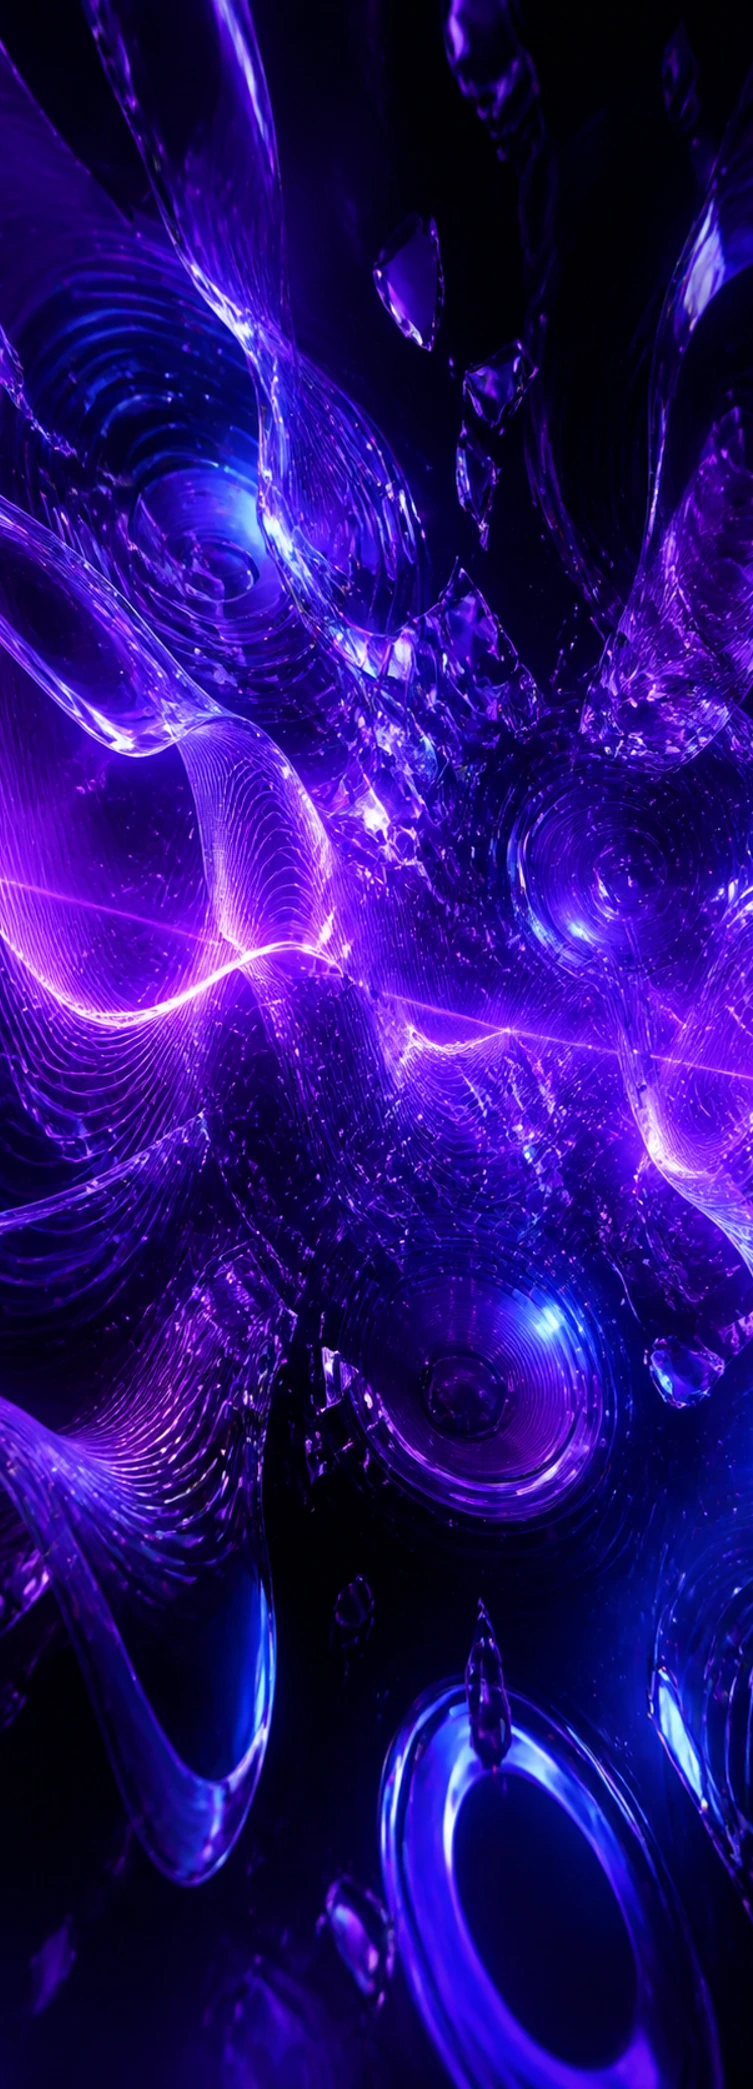
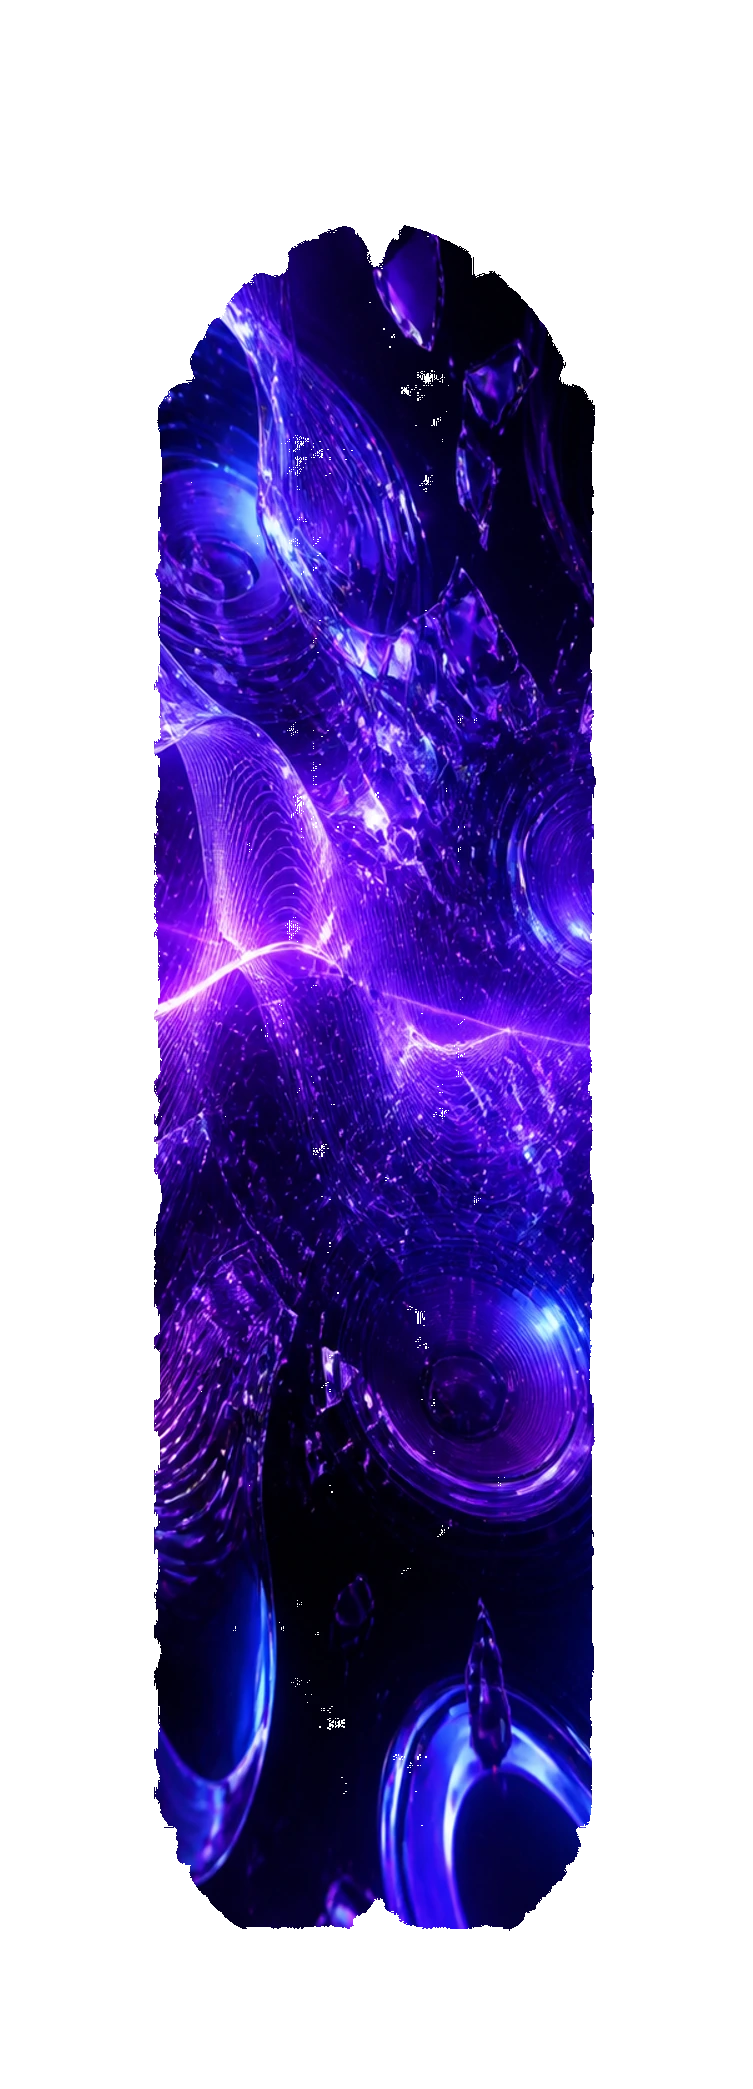
Mask summon mini gate interiors

diff --git a/PROJECT-STATUS.md b/PROJECT-STATUS.md
@@ -1632,6 +1632,12 @@ PR: https://github.com/overvivi/vivigames/pull/1
 - RAVEN／MIKA／BRICK／NOISE／KIRI／VIVI／TΩ9の7種について、景色・地面・キャラを含まない写真調の抽象異界テクスチャを追加。各キャラの固有色・紋章モチーフだけを示し、共通枠の内寸へ中央トリミングで収めた
 - 原画は`source/assets/championship-re/references/mini-gate-interior-*-master-v1.png`、配信用WebPと変換手順は`ui/mini-gates/`および`tools/build-championship-re-mini-gates.mjs`に保存。型チェックと既存の最強決定戦テスト20件は成功
 
+### 2026-09-02 — Codex（Remaster：ミニゲート内側背景の開口マスク）
+
+- 写真枠の外寸全体へ内側背景を置いていたため、透明な外周と柱の上へ背景がはみ出していた。変換処理で枠画像の中央から連続するalpha=0領域だけを抽出し、7種すべての背景へ`dest-in`マスクとして適用した
+- 枠外・柱・上アーチの位置はalpha=0、中央の開口はalpha=255であることを数値検査済み。フレームの見た目に依存せず、今後の素材再変換でも同じ開口だけに収まる
+- `npx tsc --noEmit`、`npm run test:champion`（20件）、`npm run verify`、`git diff --check`成功
+
 ### 2026-09-02 — Codex（Remaster：共通大型ゲートを確認画面へ仮配置、未公開）
 
 - 大型門の横幅を背景Bの窓に従わせる構造を不採用にした。`772×790`の門外寸そのものを基準とし、左右へ張り出す黒鉄・石のバットレス、薄い敷居、大きい透明開口を持つ共通門v4を制作した。
